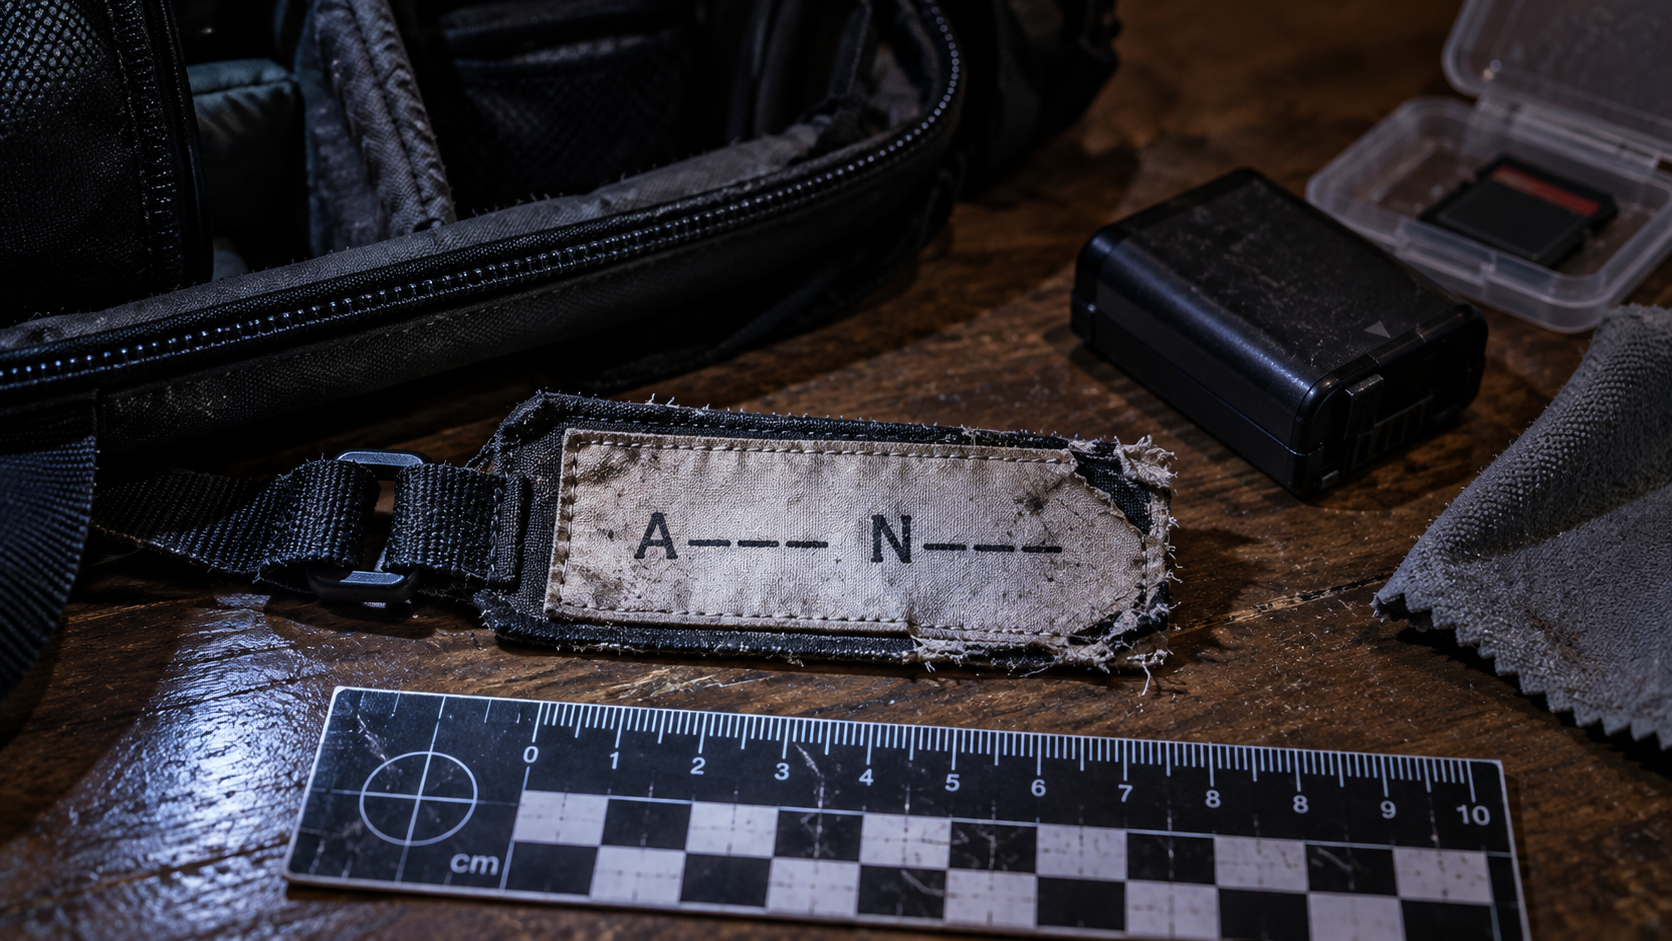
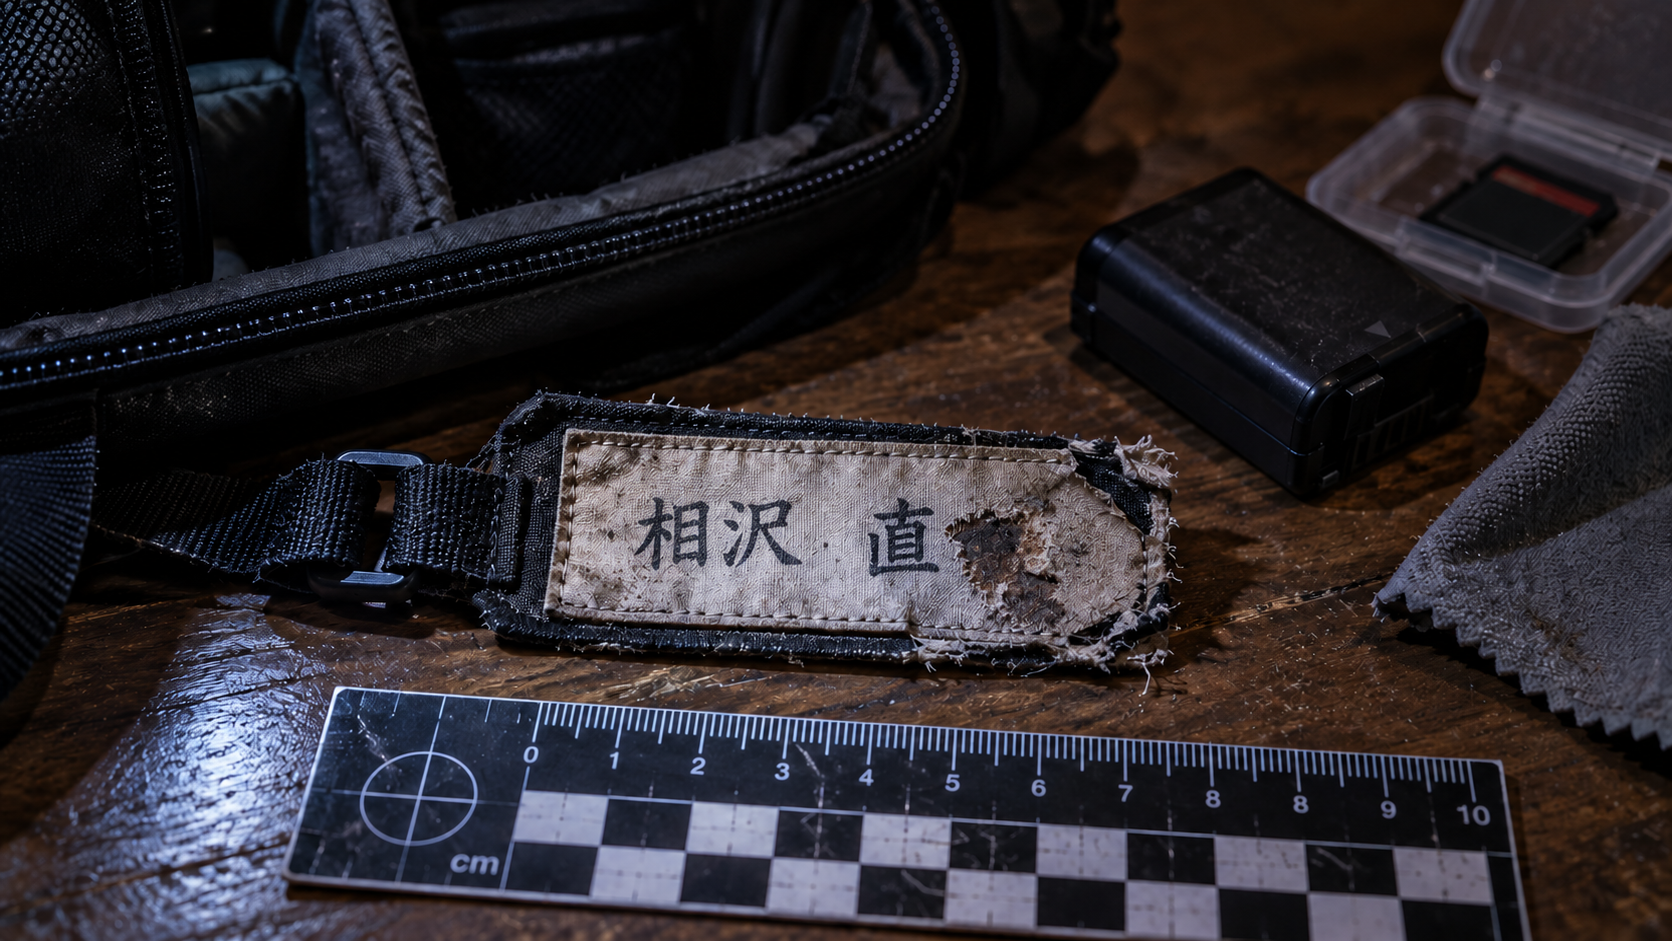
Clarify END13 name tag evidence

diff --git a/tests/game-rules.test.ts b/tests/game-rules.test.ts
@@ -52,6 +52,32 @@ test("investigation and final answers accept specified variants", () => {
   assert.equal(validateFinal(["アイザワナオキ", "6時間16分", "くぜりゅういち", "久世隆一"]), true);
 });
 
+test("END13 archive evidence identifies Naoki without changing the ending text", async () => {
+  assert.deepEqual(sceneMap.end13.unlockEvidence, ["room_d_seen", "unknown_bag_seen", "unknown_charger", "damaged_name_tag"]);
+  assert.equal(sceneMap.end13.text.includes("A—— N——"), true);
+  assert.equal(sceneMap.end13.text.includes("相沢直樹"), false);
+
+  const nameTag = evidence.find((item) => item.id === "damaged_name_tag");
+  assert.ok(nameTag);
+  assert.equal(nameTag.image, "damaged_name_tag");
+  assert.equal(nameTag.zoomable, true);
+  assert.match(nameTag.description, /姓は「相沢」/);
+  assert.match(nameTag.description, /名前は「直――」/);
+  assert.match(nameTag.description, /相沢 直樹/);
+  assert.equal(assetSlots.damaged_name_tag.src, "/assets/generated/damaged_name_tag.png");
+
+  const image = await readFile(new URL("../public/assets/generated/damaged_name_tag.png", import.meta.url));
+  assert.equal(image.subarray(1, 4).toString(), "PNG");
+  assert.ok(image.byteLength > 100_000);
+});
+
+test("END14 and END15 retain the intended seventh-person deduction", () => {
+  assert.match(sceneMap.end14.text, /これ……誰が撮ったの？/);
+  assert.match(sceneMap.end14.text, /カメラを構えた人影/);
+  assert.match(sceneMap.end15.text, /PARTICIPANTS：6[\s\S]*PARTICIPANTS：7[\s\S]*DATA CORRUPTED/);
+  assert.equal(validateInvestigation(["7", "はい", "相沢直樹"]), true);
+});
+
 test("END03 proves the arm was uninjured immediately before the real 22:51 wound", () => {
   assert.equal(sceneMap.end03.text.includes("22:50"), true);
   assert.equal(sceneMap.end03.text.includes("傷は、まだない"), true);

diff --git a/lib/game/evidence.ts b/lib/game/evidence.ts
@@ -11,7 +11,7 @@ export const evidence: Evidence[] = [
   { id: "unknown_charger", title: "メーカー不明の充電器", category: "ITEM", description: "六人の所持品一覧と一致しない。", image: "room_d_charger", zoomable: true },
   { id: "unknown_messages", title: "UNKNOWNからのメッセージ", category: "MESSAGE", description: "『誰も傷つけるつもりはない』『写真だけ返してくれ』。" },
   { id: "survival_record", title: "生存者記録", category: "RECORD", description: "生還者は6、参加者は7。集計欄に矛盾がある。", image: "survival_record", zoomable: true },
-  { id: "damaged_name_tag", title: "破損したネームタグ", category: "ITEM", description: "A—— N——。カメラバッグに残っていた断片。", image: "damaged_name_tag", zoomable: true },
+  { id: "damaged_name_tag", title: "破損したネームタグ", category: "ITEM", description: "古いネームタグ。表面には擦れと汚れがあり、文字の一部が欠けている。姓は「相沢」、名前は「直――」まで確認できる。裏面には薄く手書きされた「相沢 直樹」の文字が残っている。", image: "damaged_name_tag", zoomable: true },
   { id: "group_photo_hq", title: "17:18 反射部復元", category: "PHOTO", description: "ガラスにカメラを構える人物が薄く映る。", image: "group_1718_hq", zoomable: true },
   { id: "naoki_0612_photo", title: "NAOKI_0815_0612.jpg", category: "PHOTO", description: "橋の崩落から6時間16分後。路上を歩く人物。", image: "naoki_0612", zoomable: true },
   { id: "vehicle_1723_record", title: "17:23 山荘前記録", category: "PHOTO", description: "山荘前に停車する濃紺のSUV。左後部の傷と山型ステッカーを確認できる。", image: "vehicle_1723_record", zoomable: true },
